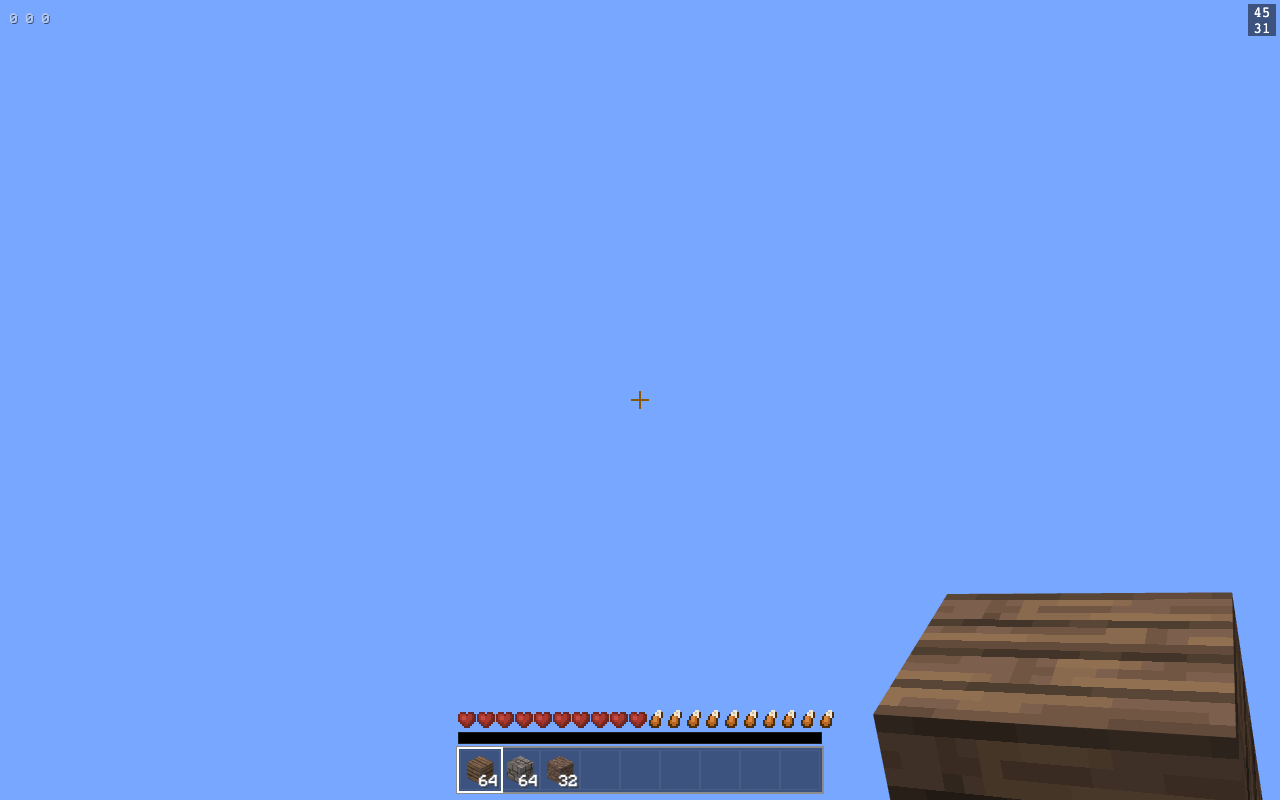
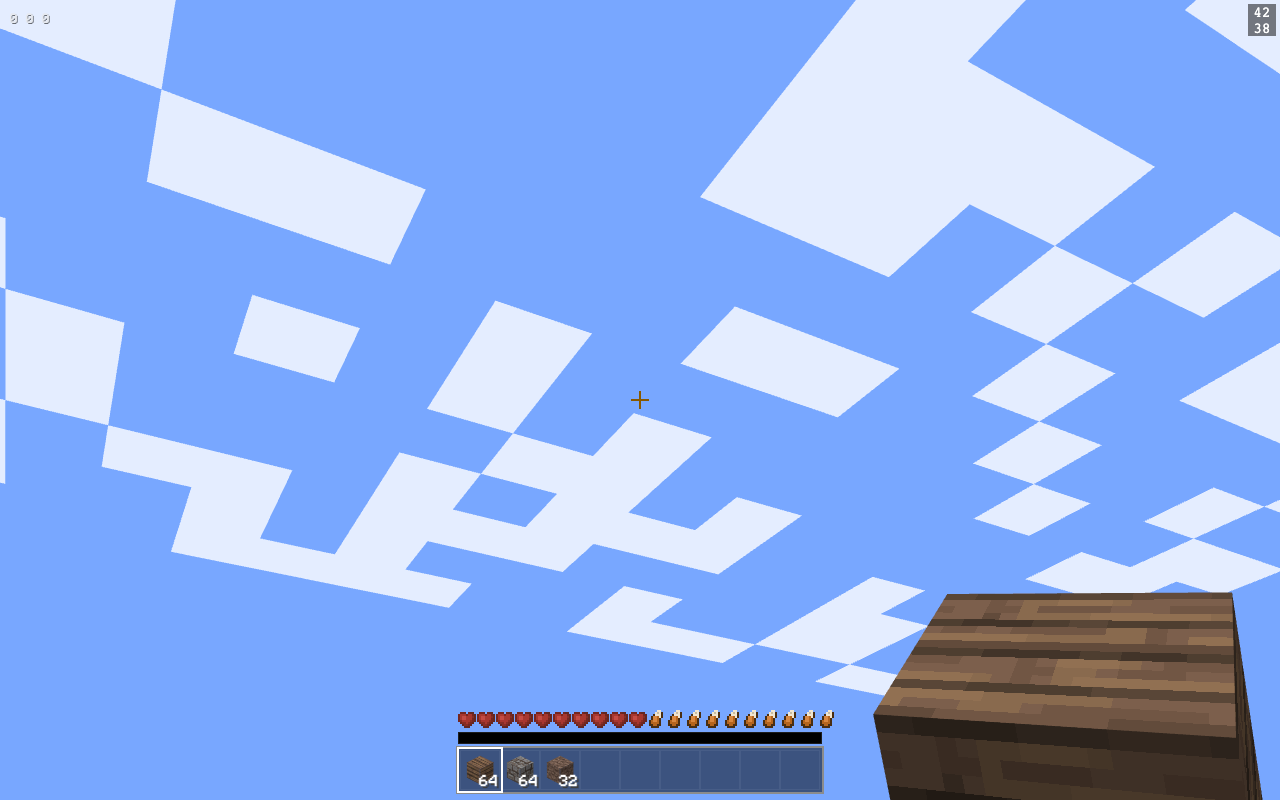
Add Minecraft cloud layer, built as geometry
An earlier attempt tiled the texture pack's cloud image across one large
plane and produced a flat white ceiling over the whole sky. The cause: that
image is a solid fill tile. Minetest and Minecraft both build clouds out of
blocks, so the cloud SHAPES come from which cells exist, not from anything
painted into the image.

So the layer is now a grid of quads, each present or absent per a
deterministic hash, merged into a single mesh. Merging matters: a few hundred
separate meshes would cost a draw call each. Math.random was rejected for
cell selection because it would reshuffle the sky on every page load.

The layer snaps to whole cells when recentering on the player, with drift
applied on top as a continuous offset. Without the snap the entire sky slides
around as you walk.

Two noa/Babylon traps handled: the merged mesh must be registered via
noa.rendering.addMeshToScene or noa's selection octree never draws it, and
ambientColor must be forced black because noa leaves it white and Babylon
adds that term even with disableLighting on.

Verified: 1 merged mesh, 1316 vertices, at y=72, 41fps under software
rendering. Screenshot shows scattered blocky clouds with sky visible between
them. No page errors.

diff --git a/src/sky.js b/src/sky.js
@@ -1,23 +1,92 @@
 import { CreatePlane } from '@babylonjs/core/Meshes/Builders/planeBuilder'
+import { Mesh } from '@babylonjs/core/Meshes/mesh'
 import { Texture } from '@babylonjs/core/Materials/Textures/texture'
 import { Color3 } from '@babylonjs/core/Maths/math.color'
 
 /*
- * The sun.
+ * Clouds and sun.
  *
- * Clouds were tried and cut. Pixel Perfection's cloud texture is a solid
- * fill tile (Minetest builds clouds from cubes, not from a patterned sheet),
- * so tiling it across a plane renders a flat white ceiling over the whole
- * sky rather than anything cloud-shaped. Doing them properly needs a
- * generated blocky alpha mask, which is a separate job.
+ * The clouds are GEOMETRY, not a texture. A first attempt tiled the pack's
+ * cloud image across one big plane and produced a flat white ceiling over the
+ * entire sky -- because that image is a solid fill tile. Minetest and
+ * Minecraft both build clouds out of blocks, and the cloud shapes come from
+ * which cells exist, not from anything painted into the image.
  *
- * The sun is positioned in world space each tick rather than parented to the
- * camera, so it holds a fixed compass direction as you turn and move.
+ * So: a grid of cells, each either present or absent according to a
+ * deterministic hash, merged into ONE mesh. Merging matters -- a few hundred
+ * separate meshes would cost a draw call each and wreck the frame rate.
+ *
+ * The layer sits at a fixed world altitude and recenters horizontally on the
+ * player, so it never rises and falls as you jump. The sun is likewise
+ * positioned in world space rather than parented to the camera, so it holds a
+ * fixed compass direction as you turn.
  */
+
+// Cloud layer geometry. GRID x GRID cells of CELL blocks each, so the layer
+// spans GRID*CELL blocks -- comfortably past the 48-block island in any
+// direction the player can get to.
+const CLOUD_HEIGHT = 72
+const CLOUD_CELL = 12
+const CLOUD_GRID = 28
+const CLOUD_FILL = 0.42   // fraction of cells that are cloud
+const CLOUD_DRIFT = 0.6   // blocks per second
+
+/*
+ * Deterministic value hash. Math.random would reshuffle the sky on every
+ * page load and, worse, on every rebuild of the layer.
+ */
+function cellFilled(i, j) {
+  let h = Math.imul(i * 374761393 + j * 668265263, 1274126177)
+  h = (h ^ (h >>> 13)) >>> 0
+  return (h % 1000) / 1000 < CLOUD_FILL
+}
+
+function buildCloudLayer(noa, scene) {
+  const tex = new Texture('/textures/cloud.png', scene, true, false, Texture.NEAREST_SAMPLINGMODE)
+
+  const mat = noa.rendering.makeStandardMaterial('cloud-mat')
+  mat.diffuseTexture = tex
+  mat.disableLighting = true
+  mat.emissiveColor = new Color3(1, 1, 1)
+  // noa leaves ambientColor white and Babylon adds that term even with
+  // lighting disabled, which blows flat white out to a glaring sheet.
+  mat.ambientColor = new Color3(0, 0, 0)
+  // Seen from underneath essentially always, so both faces must draw.
+  mat.backFaceCulling = false
+  mat.alpha = 0.8
+
+  const half = (CLOUD_GRID * CLOUD_CELL) / 2
+  const tiles = []
+  for (let i = 0; i < CLOUD_GRID; i++) {
+    for (let j = 0; j < CLOUD_GRID; j++) {
+      if (!cellFilled(i, j)) continue
+      const tile = CreatePlane(`cloud_${i}_${j}`, { size: CLOUD_CELL }, scene)
+      tile.rotation.x = Math.PI / 2
+      tile.position.set(i * CLOUD_CELL - half, 0, j * CLOUD_CELL - half)
+      tiles.push(tile)
+    }
+  }
+
+  // One mesh, one draw call. Args are (meshes, disposeSource,
+  // allow32BitsIndices); 32-bit indices matter because a few hundred quads
+  // exceeds the 65k vertex ceiling of 16-bit ones.
+  const layer = Mesh.MergeMeshes(tiles, true, true)
+  layer.material = mat
+  layer.isPickable = false
+  layer.alwaysSelectAsActiveMesh = true
+
+  // REQUIRED. noa installs its own selection octree, so Babylon picks what to
+  // render from that rather than from scene.meshes. A mesh built directly in
+  // the scene and never registered here is silently never drawn.
+  noa.rendering.addMeshToScene(layer)
+  return layer
+}
 
 export function installSky(noa) {
   const scene = noa.rendering.getScene()
   const player = noa.playerEntity
+
+  const clouds = buildCloudLayer(noa, scene)
 
   /* ---- sun ---- */
   const sunTex = new Texture('/textures/sun.png', scene, true, false, Texture.NEAREST_SAMPLINGMODE)
@@ -45,9 +114,21 @@ export function installSky(noa) {
 
   const local = [0, 0, 0]
   const global = [0, 0, 0]
+  let drift = 0
 
-  noa.on('tick', () => {
+  noa.on('tick', (dt) => {
     const p = noa.ents.getPositionData(player).position
+
+    // Snap the layer to whole cells so recentering on the player is
+    // invisible; drift is applied on top as a continuous offset. Without the
+    // snap the whole sky would slide around as you walk.
+    drift = (drift + (dt / 1000) * CLOUD_DRIFT) % CLOUD_CELL
+    global[0] = Math.round(p[0] / CLOUD_CELL) * CLOUD_CELL + drift
+    global[1] = CLOUD_HEIGHT
+    global[2] = Math.round(p[2] / CLOUD_CELL) * CLOUD_CELL
+    noa.globalToLocal(global, null, local)
+    clouds.position.set(local[0], local[1], local[2])
+
     global[0] = p[0] + (SUN_DIR[0] / len) * SUN_DIST
     global[1] = p[1] + (SUN_DIR[1] / len) * SUN_DIST
     global[2] = p[2] + (SUN_DIR[2] / len) * SUN_DIST
